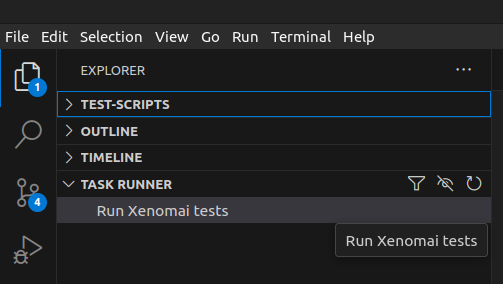
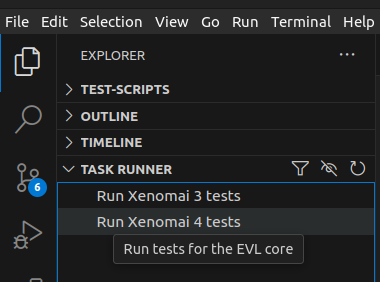
deploy: update metadata to include Xenomai 3
Make the README, deploy script, and VS Code tasks aware of Xenomai 3.

Allow users to select which tests to run - be it for 3 or 4.

diff --git a/README.md b/README.md
@@ -1,11 +1,19 @@
-# Xenomai 4 Torizon OS Tests
+# Xenomai Torizon OS Tests
 
-Run the tests from VS Code:
+Run the tests from VS Code (`Ctrl + Shift + B` or use the [task runner](https://marketplace.visualstudio.com/items?itemName=microhobby.taskrunnercodeplus)):
 
 ![Run from VS Code Task Runner](.multimedia/run-vscode.png)
 
-Run the tests from the command-line:
+Run the tests from the command-line.
+
+For Xenomai 4 (EVL core):
 
 ```bash
-./deploy.sh
+./deploy.sh 4
+```
+
+For Xenomai 3 (Cobalt core):
+
+```bash
+./deploy.sh 3
 ```
